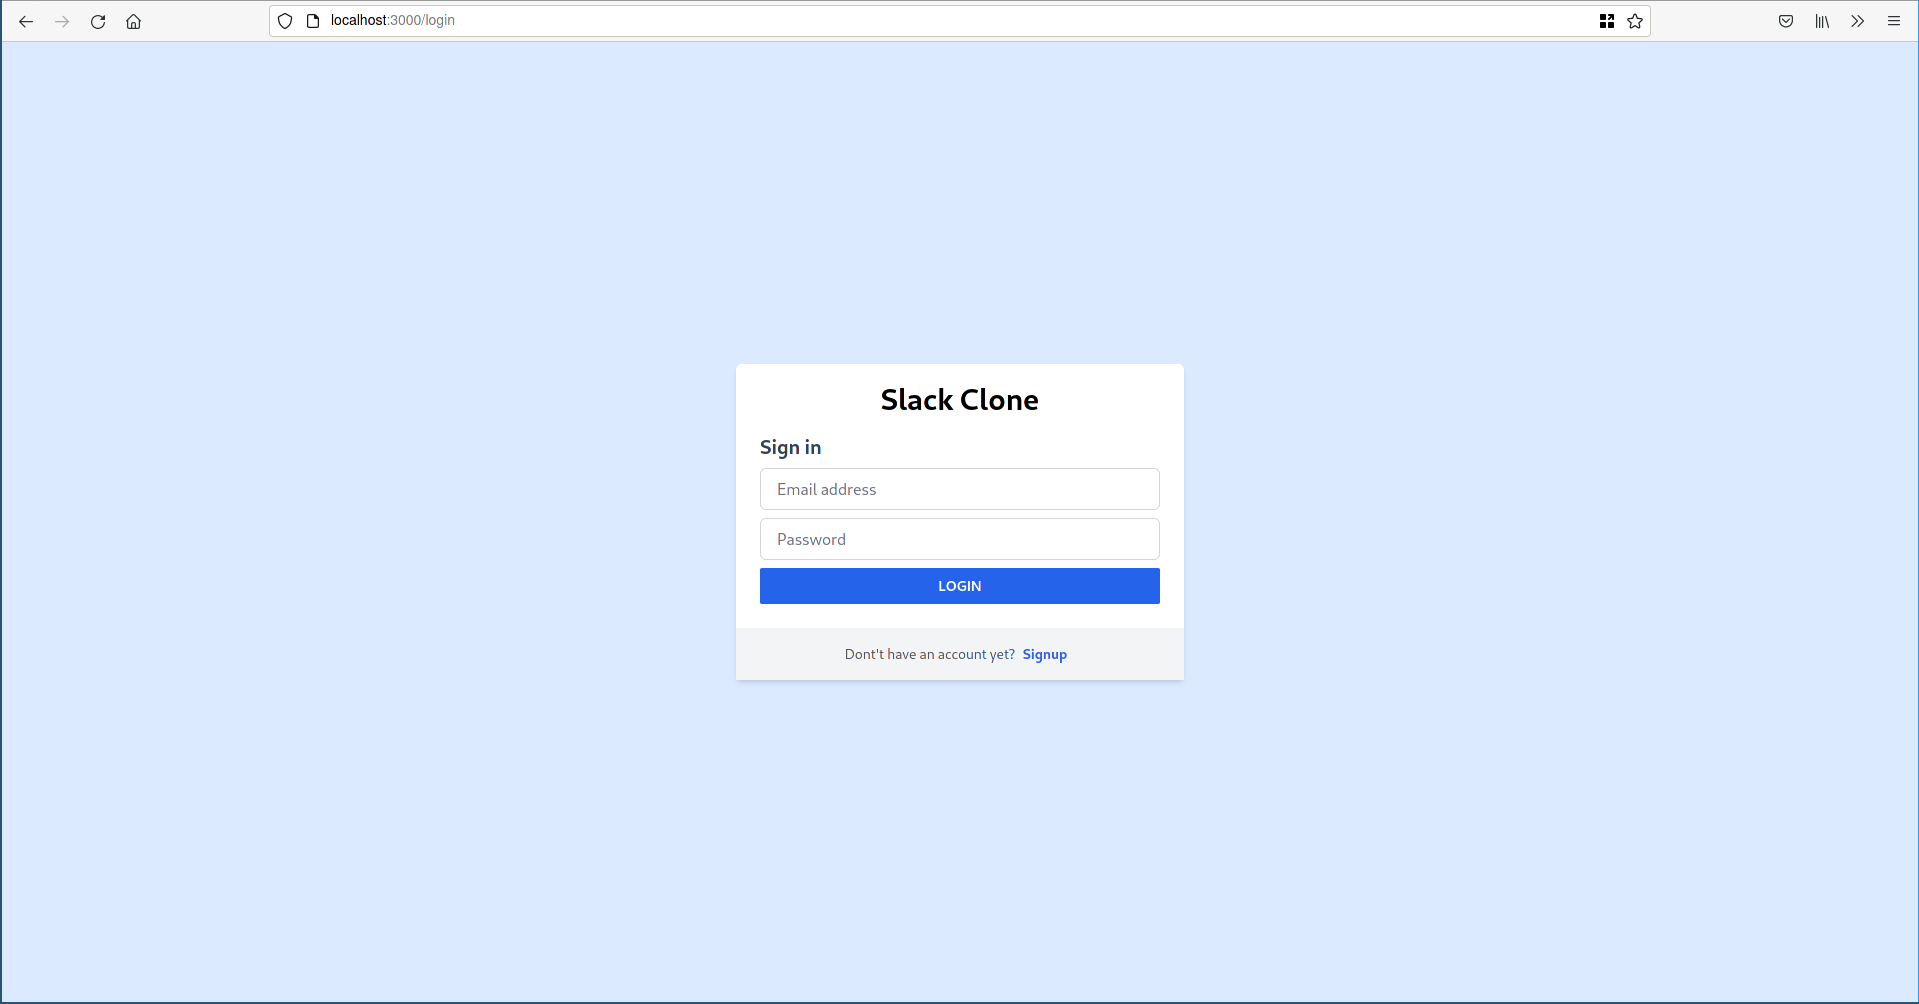
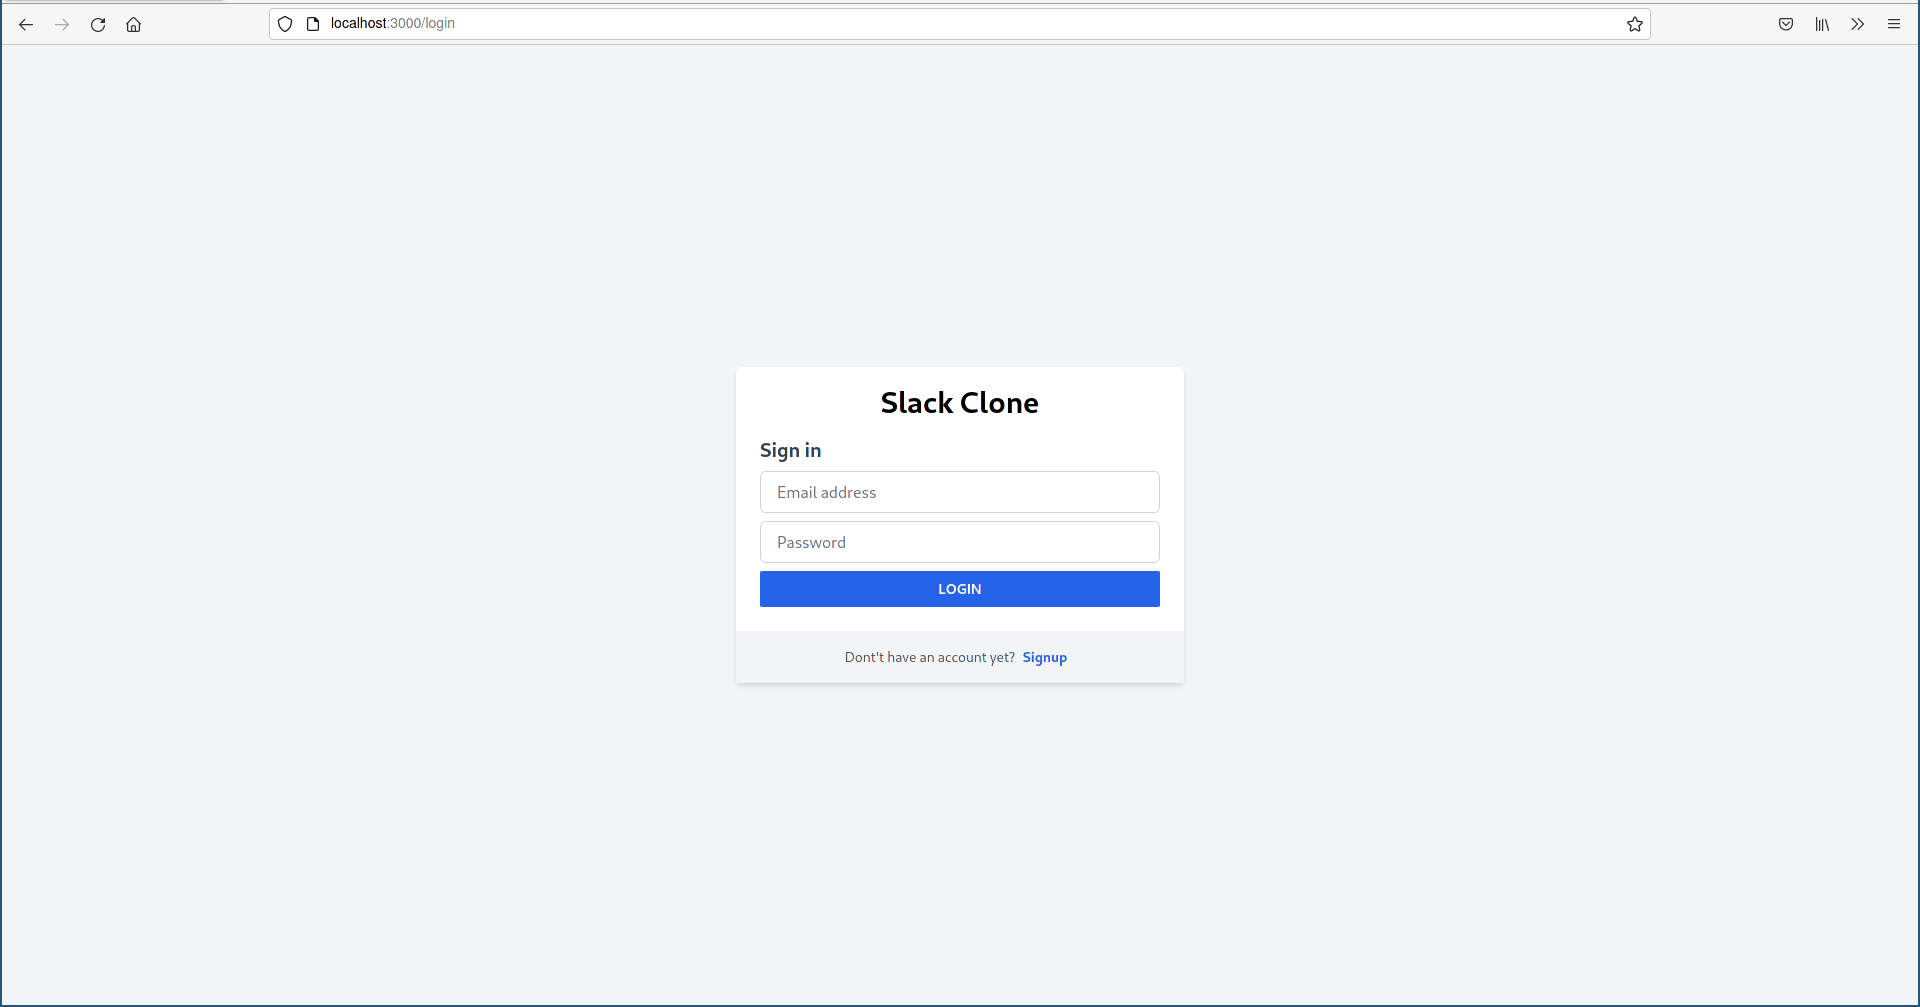
change login/signup background

diff --git a/front/src/components/CenteringPage/CenteringPage.tsx b/front/src/components/CenteringPage/CenteringPage.tsx
@@ -2,7 +2,7 @@ import React from 'react'
 
 const CenteringPage: React.FC = ({ children }) => {
   return (
-    <div className="flex items-center justify-center min-h-screen px-4 py-12 bg-blue-100 sm:px-6 lg:px-8">
+    <div className="flex items-center justify-center min-h-screen px-4 py-12 bg-gray-100 sm:px-6 lg:px-8">
       {children}
     </div>
   )
